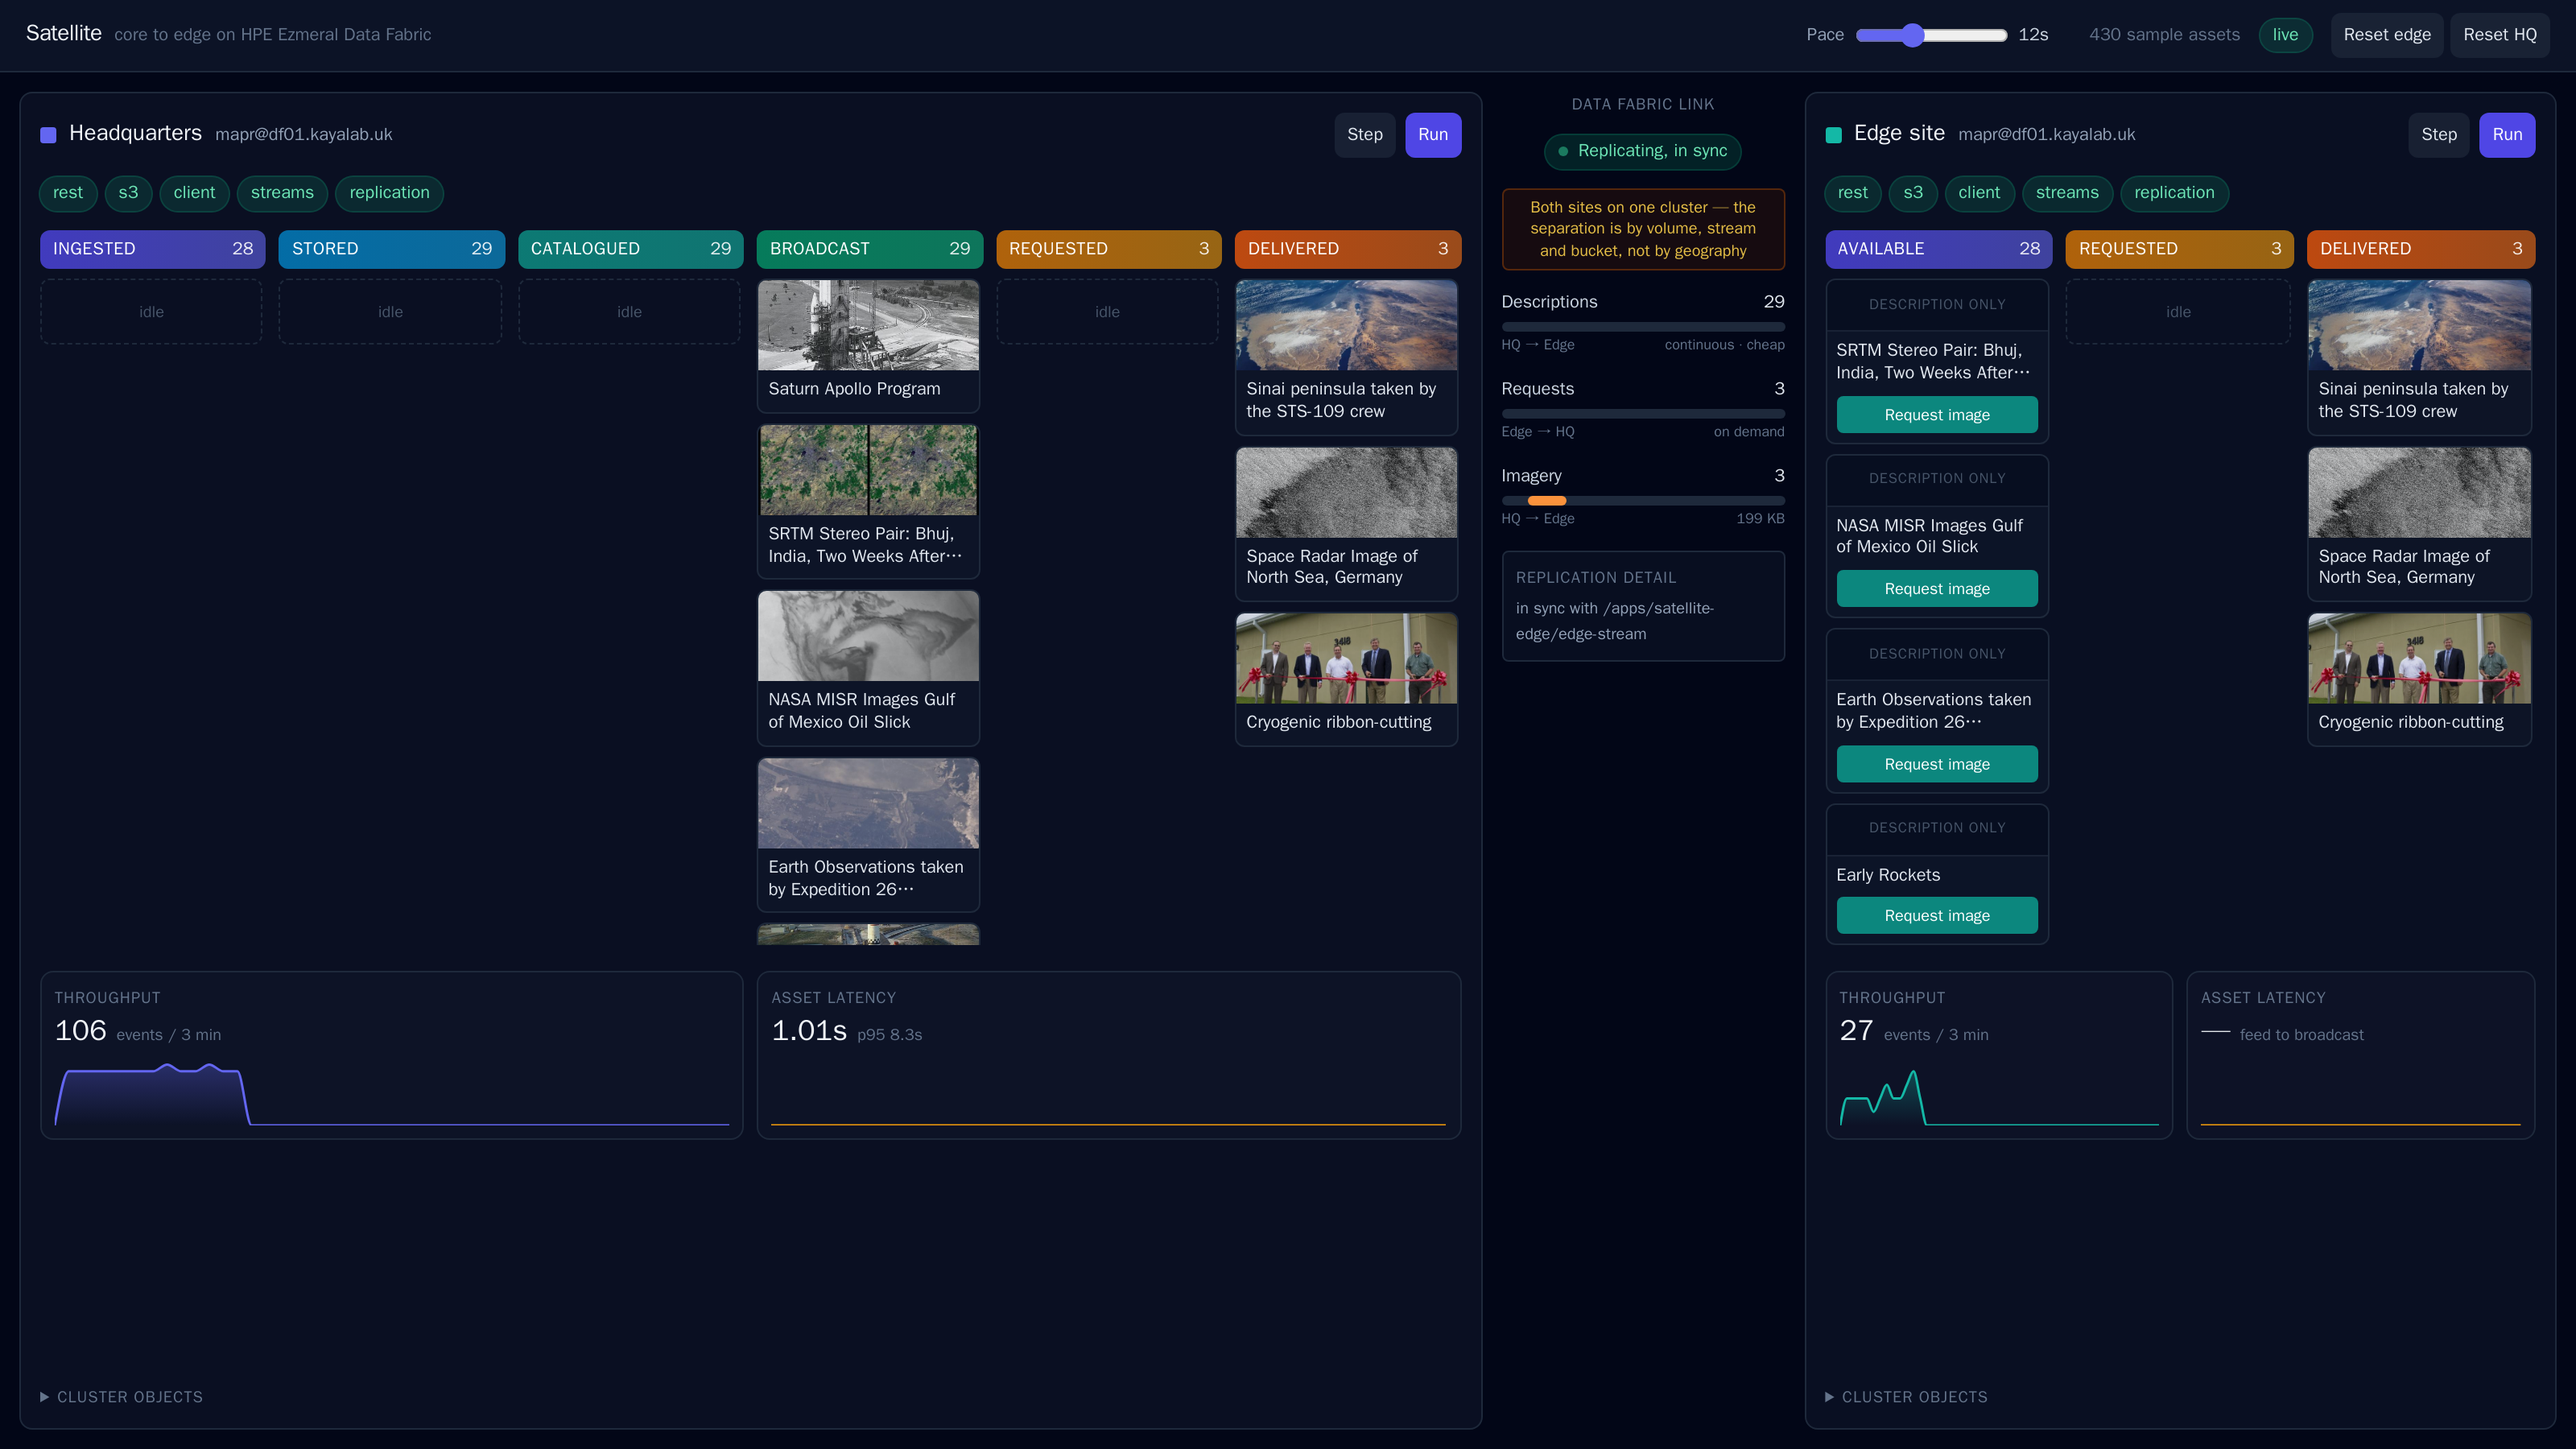
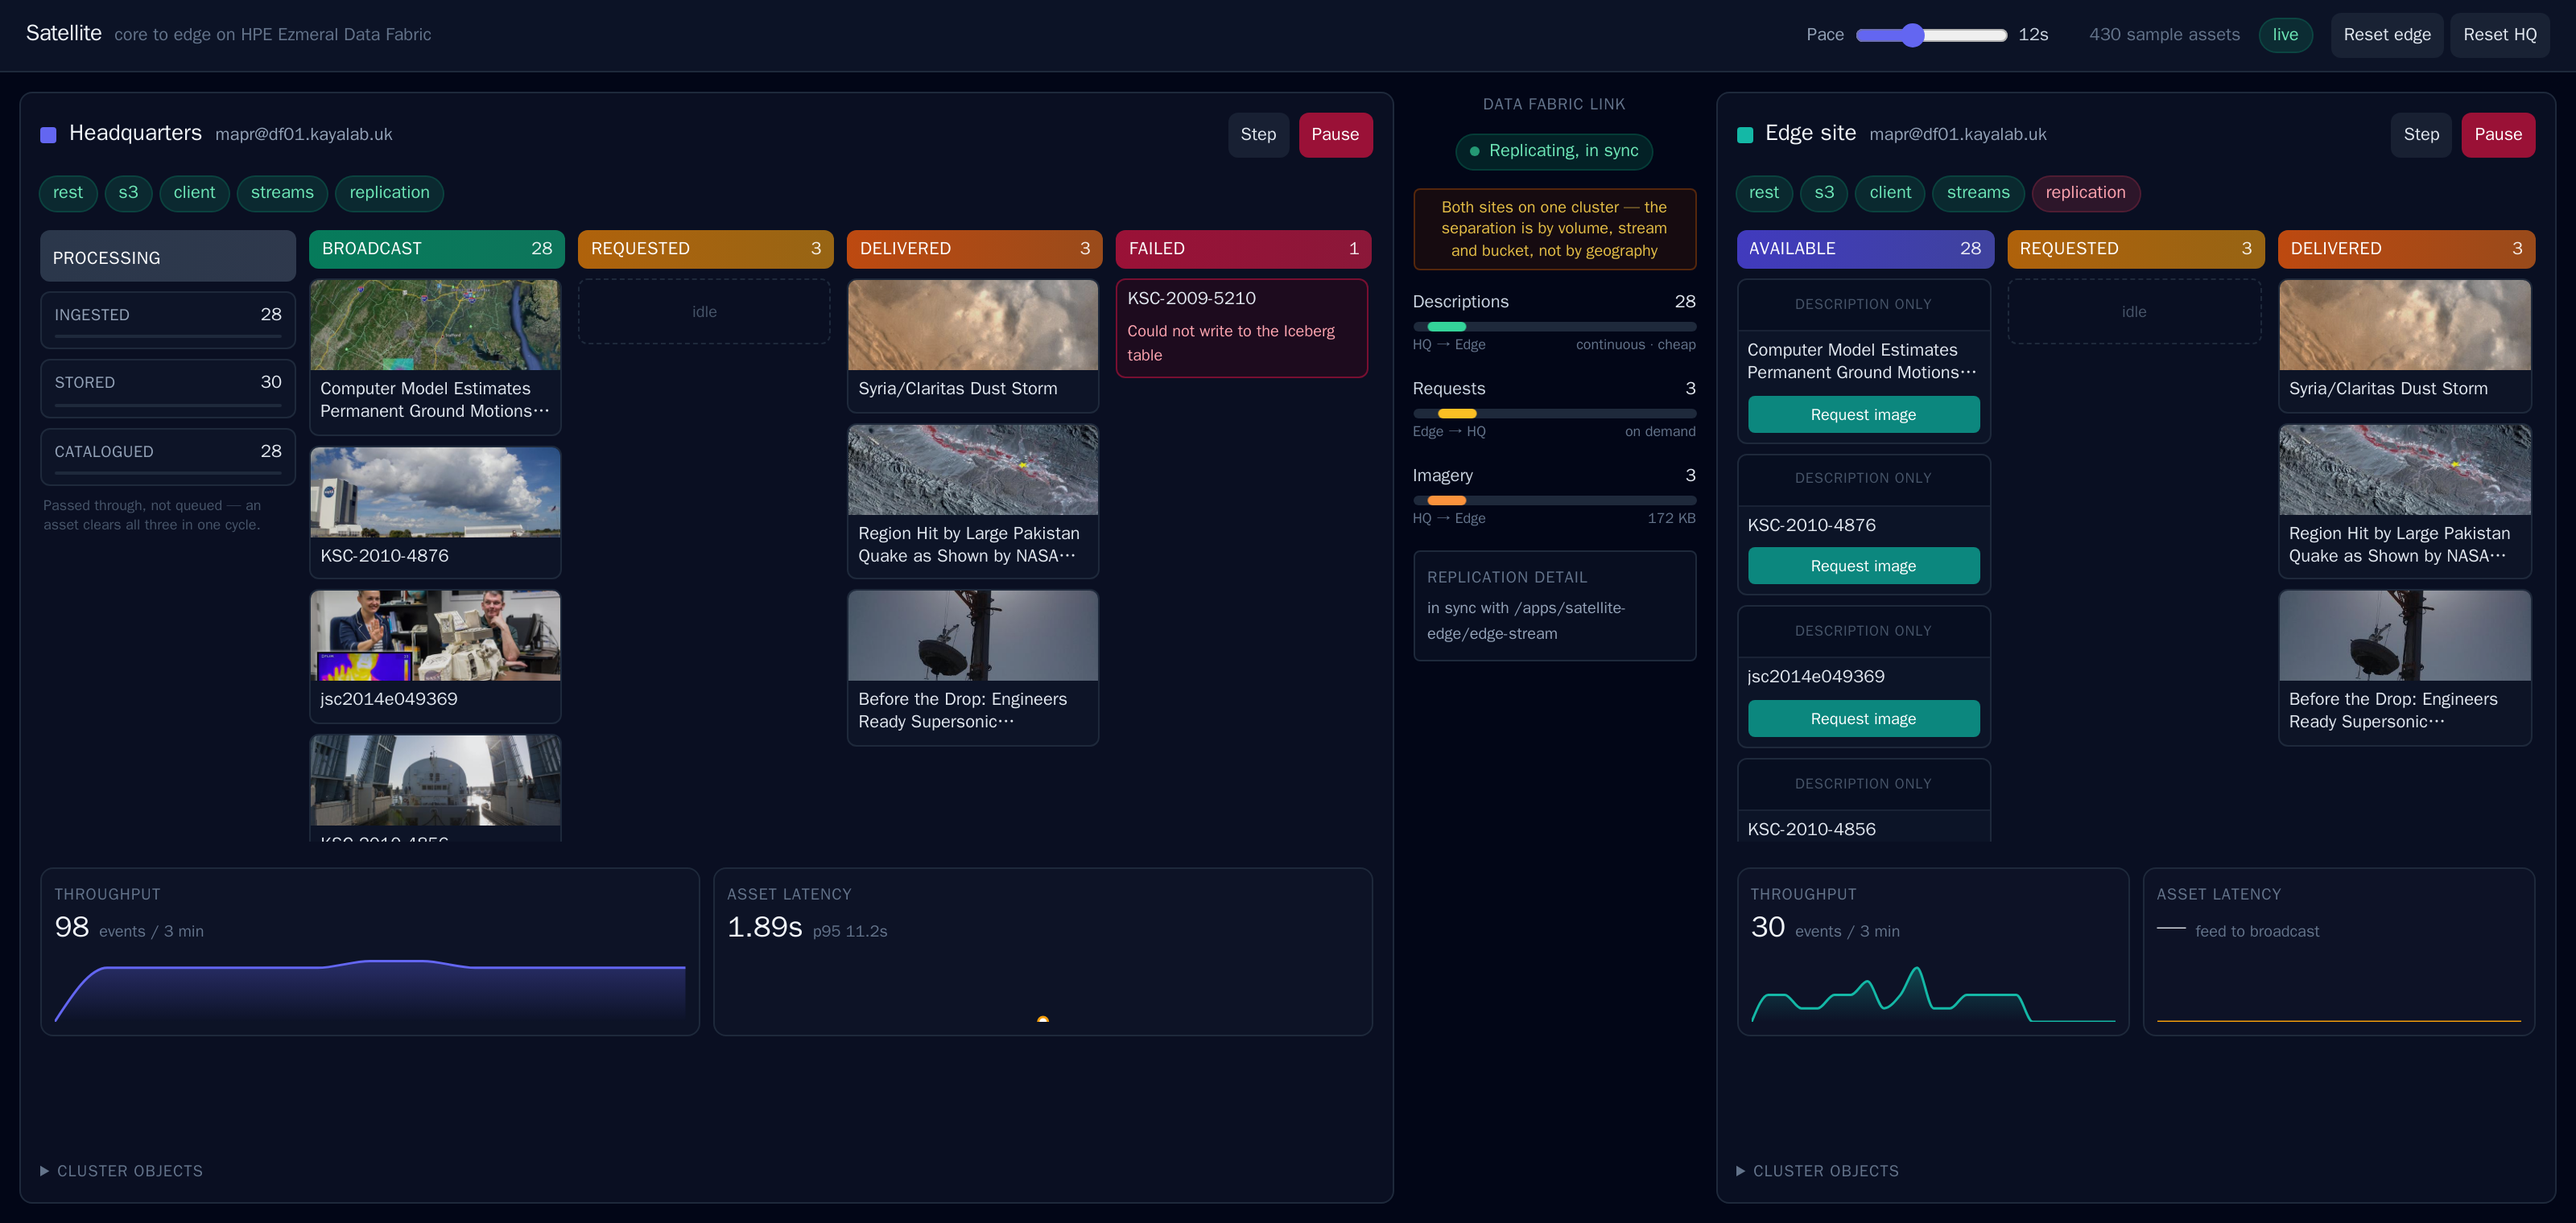
Collapse HQ's transit stages into one rail
Ingested, Stored and Catalogued were three columns permanently reading "idle".
They are not slow stages — in one HQ cycle an asset is stored, catalogued and
broadcast inside a single loop iteration, so their occupancy is essentially
always zero and no layout would have caught an asset in them.

They are transits, not places work rests, so they now share one column position
as a stacked rail showing each step's running total, pulsing as it advances.
The stages where assets genuinely dwell — Broadcast, Available, Delivered —
keep their columns, so the pipeline still reads left to right while the
reclaimed width goes to tiles that actually hold something.

Also retry transient catalogue writes. The S3 gateway occasionally answers a
valid request with a 500, and without a retry that turned a healthy asset into
a permanently failed one — a red tile on screen for the rest of the demo from a
blip that cleared in under a second. Three attempts with backoff, dropping the
cached catalog between them.

diff --git a/frontend/src/components/StageBoard.jsx b/frontend/src/components/StageBoard.jsx
@@ -1,3 +1,4 @@
+import { useEffect, useRef, useState } from 'react'
 import { imageUrl } from '../api'
 
 /**
@@ -7,13 +8,99 @@ import { imageUrl } from '../api'
  * one card per stage-event: the point a technical audience needs to see is a single
  * item progressing, not a growing pile of near-identical cards.
  */
+/**
+ * Stages an asset passes *through* rather than rests in.
+ *
+ * In one HQ cycle an asset is stored, catalogued and broadcast inside a single loop
+ * iteration, so occupancy of these three is essentially always zero — they were three
+ * columns permanently reading "idle". They are not slow stages, they are transits, so
+ * they get a compact rail showing rate and totals instead of an empty tile bin. The
+ * stages where assets genuinely dwell — Broadcast, Available, Delivered — keep their
+ * columns, and the pipeline still reads left to right.
+ */
+const TRANSIT = new Set(['pipeline', 'download', 'record'])
+
+/** How many column positions a set of stages occupies once transits are collapsed. */
+export function columnCount(stages) {
+  const transits = stages.filter((s) => TRANSIT.has(s.id)).length
+  return stages.length - transits + (transits ? 1 : 0)
+}
+
 export default function StageBoard({ side, stages, onSelect, onRequest }) {
+  const transits = stages.filter((s) => TRANSIT.has(s.id))
+  const resting = stages.filter((s) => !TRANSIT.has(s.id))
+
   return (
     <div className="flex gap-2 overflow-x-auto pb-1">
-      {stages.map((stage) => (
+      {transits.length > 0 && <TransitRail stages={transits} />}
+      {resting.map((stage) => (
         <Column key={stage.id} side={side} stage={stage}
                 onSelect={onSelect} onRequest={onRequest} />
       ))}
+    </div>
+  )
+}
+
+/**
+ * The transit stages, stacked.
+ *
+ * Each step pulses when its total advances, which is the only honest way to show a
+ * stage nothing ever sits in: you see the throughput, not a phantom queue.
+ */
+function TransitRail({ stages }) {
+  const previous = useRef({})
+  const [pulsing, setPulsing] = useState({})
+
+  useEffect(() => {
+    const moved = {}
+    for (const stage of stages) {
+      if (previous.current[stage.id] !== undefined && stage.total > previous.current[stage.id]) {
+        moved[stage.id] = true
+      }
+      previous.current[stage.id] = stage.total
+    }
+    if (Object.keys(moved).length) {
+      setPulsing(moved)
+      const timer = setTimeout(() => setPulsing({}), 600)
+      return () => clearTimeout(timer)
+    }
+  }, [stages])
+
+  return (
+    <div className="flex min-w-[7rem] flex-1 flex-col gap-1.5">
+      <div className="rounded-md bg-gradient-to-r from-slate-700/80 to-slate-600/60 px-2 py-1"
+           title="Stages an asset passes straight through on its way to being broadcast">
+        <span className="text-[11px] font-semibold uppercase tracking-wide text-white">
+          Processing
+        </span>
+      </div>
+
+      <div className="flex flex-col gap-1.5">
+        {stages.map((stage) => (
+          <div key={stage.id} title={stage.help}
+               className={`rounded-md border px-2 py-1.5 transition-colors duration-300
+                           ${pulsing[stage.id]
+                             ? 'border-indigo-500/70 bg-indigo-500/15'
+                             : 'border-slate-800 bg-slate-900/70'}`}>
+            <div className="flex items-baseline justify-between gap-1">
+              <span className="truncate text-[10px] uppercase tracking-wide text-slate-400">
+                {stage.label}
+              </span>
+              <span className="shrink-0 text-[11px] font-bold tabular-nums text-slate-200">
+                {stage.total}
+              </span>
+            </div>
+            <div className="mt-1 h-0.5 overflow-hidden rounded-full bg-slate-800">
+              <span className={`block h-full rounded-full bg-indigo-400 transition-all duration-500
+                                ${pulsing[stage.id] ? 'w-full' : 'w-0'}`} />
+            </div>
+          </div>
+        ))}
+      </div>
+
+      <p className="px-0.5 text-[9px] leading-snug text-slate-600">
+        Passed through, not queued — an asset clears all three in one cycle.
+      </p>
     </div>
   )
 }

diff --git a/frontend/src/components/SitePanel.jsx b/frontend/src/components/SitePanel.jsx
@@ -1,18 +1,17 @@
 import Charts from './Charts.jsx'
-import StageBoard from './StageBoard.jsx'
+import StageBoard, { columnCount } from './StageBoard.jsx'
 
 /** One site: its connection, its controls, its pipeline and its metrics. */
 export default function SitePanel({ site, accent, onSelect, onRequest, actions }) {
   const { side, running, ready, status, connection, objects, stages, metrics } = site
   const connected = !!connection.host
 
-  // Width proportional to how many stages the site has: HQ runs six and the edge three,
-  // so an even split would squeeze HQ's labels while leaving the edge slack. Growing by
-  // stage count gives both sites the same column width, and it self-adjusts when a
-  // Failed column appears.
+  // Width proportional to how many columns the site actually renders — transits collapse
+  // into one — so both sites end up with the same column width instead of HQ being
+  // squeezed. Self-adjusts when a Failed column appears.
   return (
     <section className="panel flex min-w-0 flex-col gap-3 p-3"
-             style={{ flexGrow: stages.length, flexBasis: 0 }}>
+             style={{ flexGrow: columnCount(stages), flexBasis: 0 }}>
       <header className="flex flex-wrap items-center gap-2">
         <span className="h-2.5 w-2.5 shrink-0 rounded-sm" style={{ background: accent }} />
         <h2 className="text-sm font-semibold text-slate-100">

diff --git a/backend/iceberger.py b/backend/iceberger.py
@@ -14,6 +14,7 @@ from __future__ import annotations
 
 import logging
 import threading
+import time
 from pathlib import Path
 
 import pyarrow as pa
@@ -111,20 +112,40 @@ def _table(site, namespace: str, tablename: str):
         return None
 
 
-def write_asset(site, asset, tablename: str = "asset_table") -> bool:
-    """Append one asset to this site's catalogue."""
+def write_asset(site, asset, tablename: str = "asset_table", attempts: int = 3) -> bool:
+    """Append one asset to this site's catalogue, retrying transient storage errors.
+
+    The S3 gateway occasionally answers an otherwise valid request with a 500, and
+    without a retry that turned a healthy asset into a permanently failed one — a red
+    tile on screen for the rest of the demo, from a blip that cleared in under a second.
+    """
     namespace = site.side
-    table = _table(site, namespace, tablename)
-    if table is None:
-        return False
-    try:
-        record = asset.to_record()
-        table.append(pa.Table.from_pylist([{f.name: record.get(f.name, "") for f in SCHEMA}],
-                                          schema=SCHEMA))
-        return True
-    except Exception as error:
-        logger.error("Could not append %s to %s.%s: %s", asset.key, namespace, tablename, error)
-        return False
+    delay = 0.4
+
+    for attempt in range(1, attempts + 1):
+        try:
+            table = _table(site, namespace, tablename)
+            if table is None:
+                raise RuntimeError("catalogue unavailable")
+            record = asset.to_record()
+            table.append(pa.Table.from_pylist(
+                [{f.name: record.get(f.name, "") for f in SCHEMA}], schema=SCHEMA))
+            if attempt > 1:
+                logger.info("Catalogued %s on attempt %d", asset.key, attempt)
+            return True
+        except Exception as error:
+            if attempt == attempts:
+                logger.error("Could not append %s to %s.%s after %d attempts: %s",
+                             asset.key, namespace, tablename, attempts, error)
+                return False
+            logger.warning("Catalogue write for %s failed (attempt %d/%d), retrying: %s",
+                           asset.key, attempt, attempts, error)
+            # A stale cached catalog is one cause, so drop it before trying again.
+            with _lock:
+                _catalog.pop(site.side, None)
+            time.sleep(delay)
+            delay *= 2
+    return False
 
 
 def read_all(site, tablename: str = "asset_table"):
